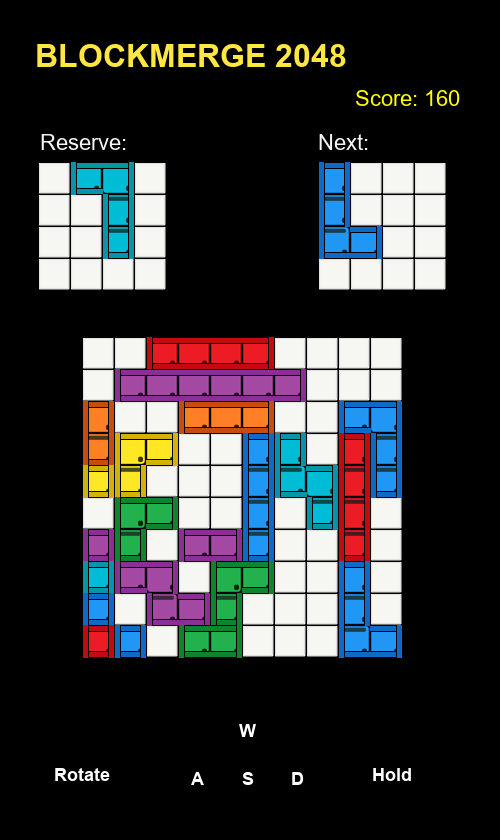
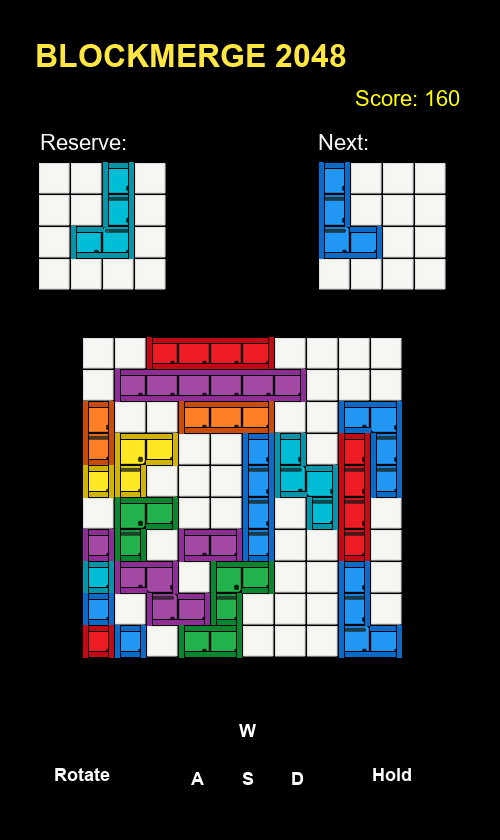
Fix aqua piece horizontal mirror

Changed region(s): [[0.12, 0.1857, 0.24, 0.3095]]

diff --git a/docs/VersionInformation.md b/docs/VersionInformation.md
@@ -6,7 +6,7 @@
 - 彩色拼片資產改成中性檔名與圓角寶石風格，移除舊的形狀字母命名。
 - 修正滑動時前方拼片可移動、卻錯誤卡住後方拼片的問題；模式 1、模式 2 都套用依賴式同步滑動。
 - 消除音效與 Game Over 音效共用同一個效果音量設定。
-- 新增第七種 aqua 青色翻轉角形拼片。
+- 新增第七種 aqua 青色水平翻轉角形拼片。
 
 ## 2.3.9
 
